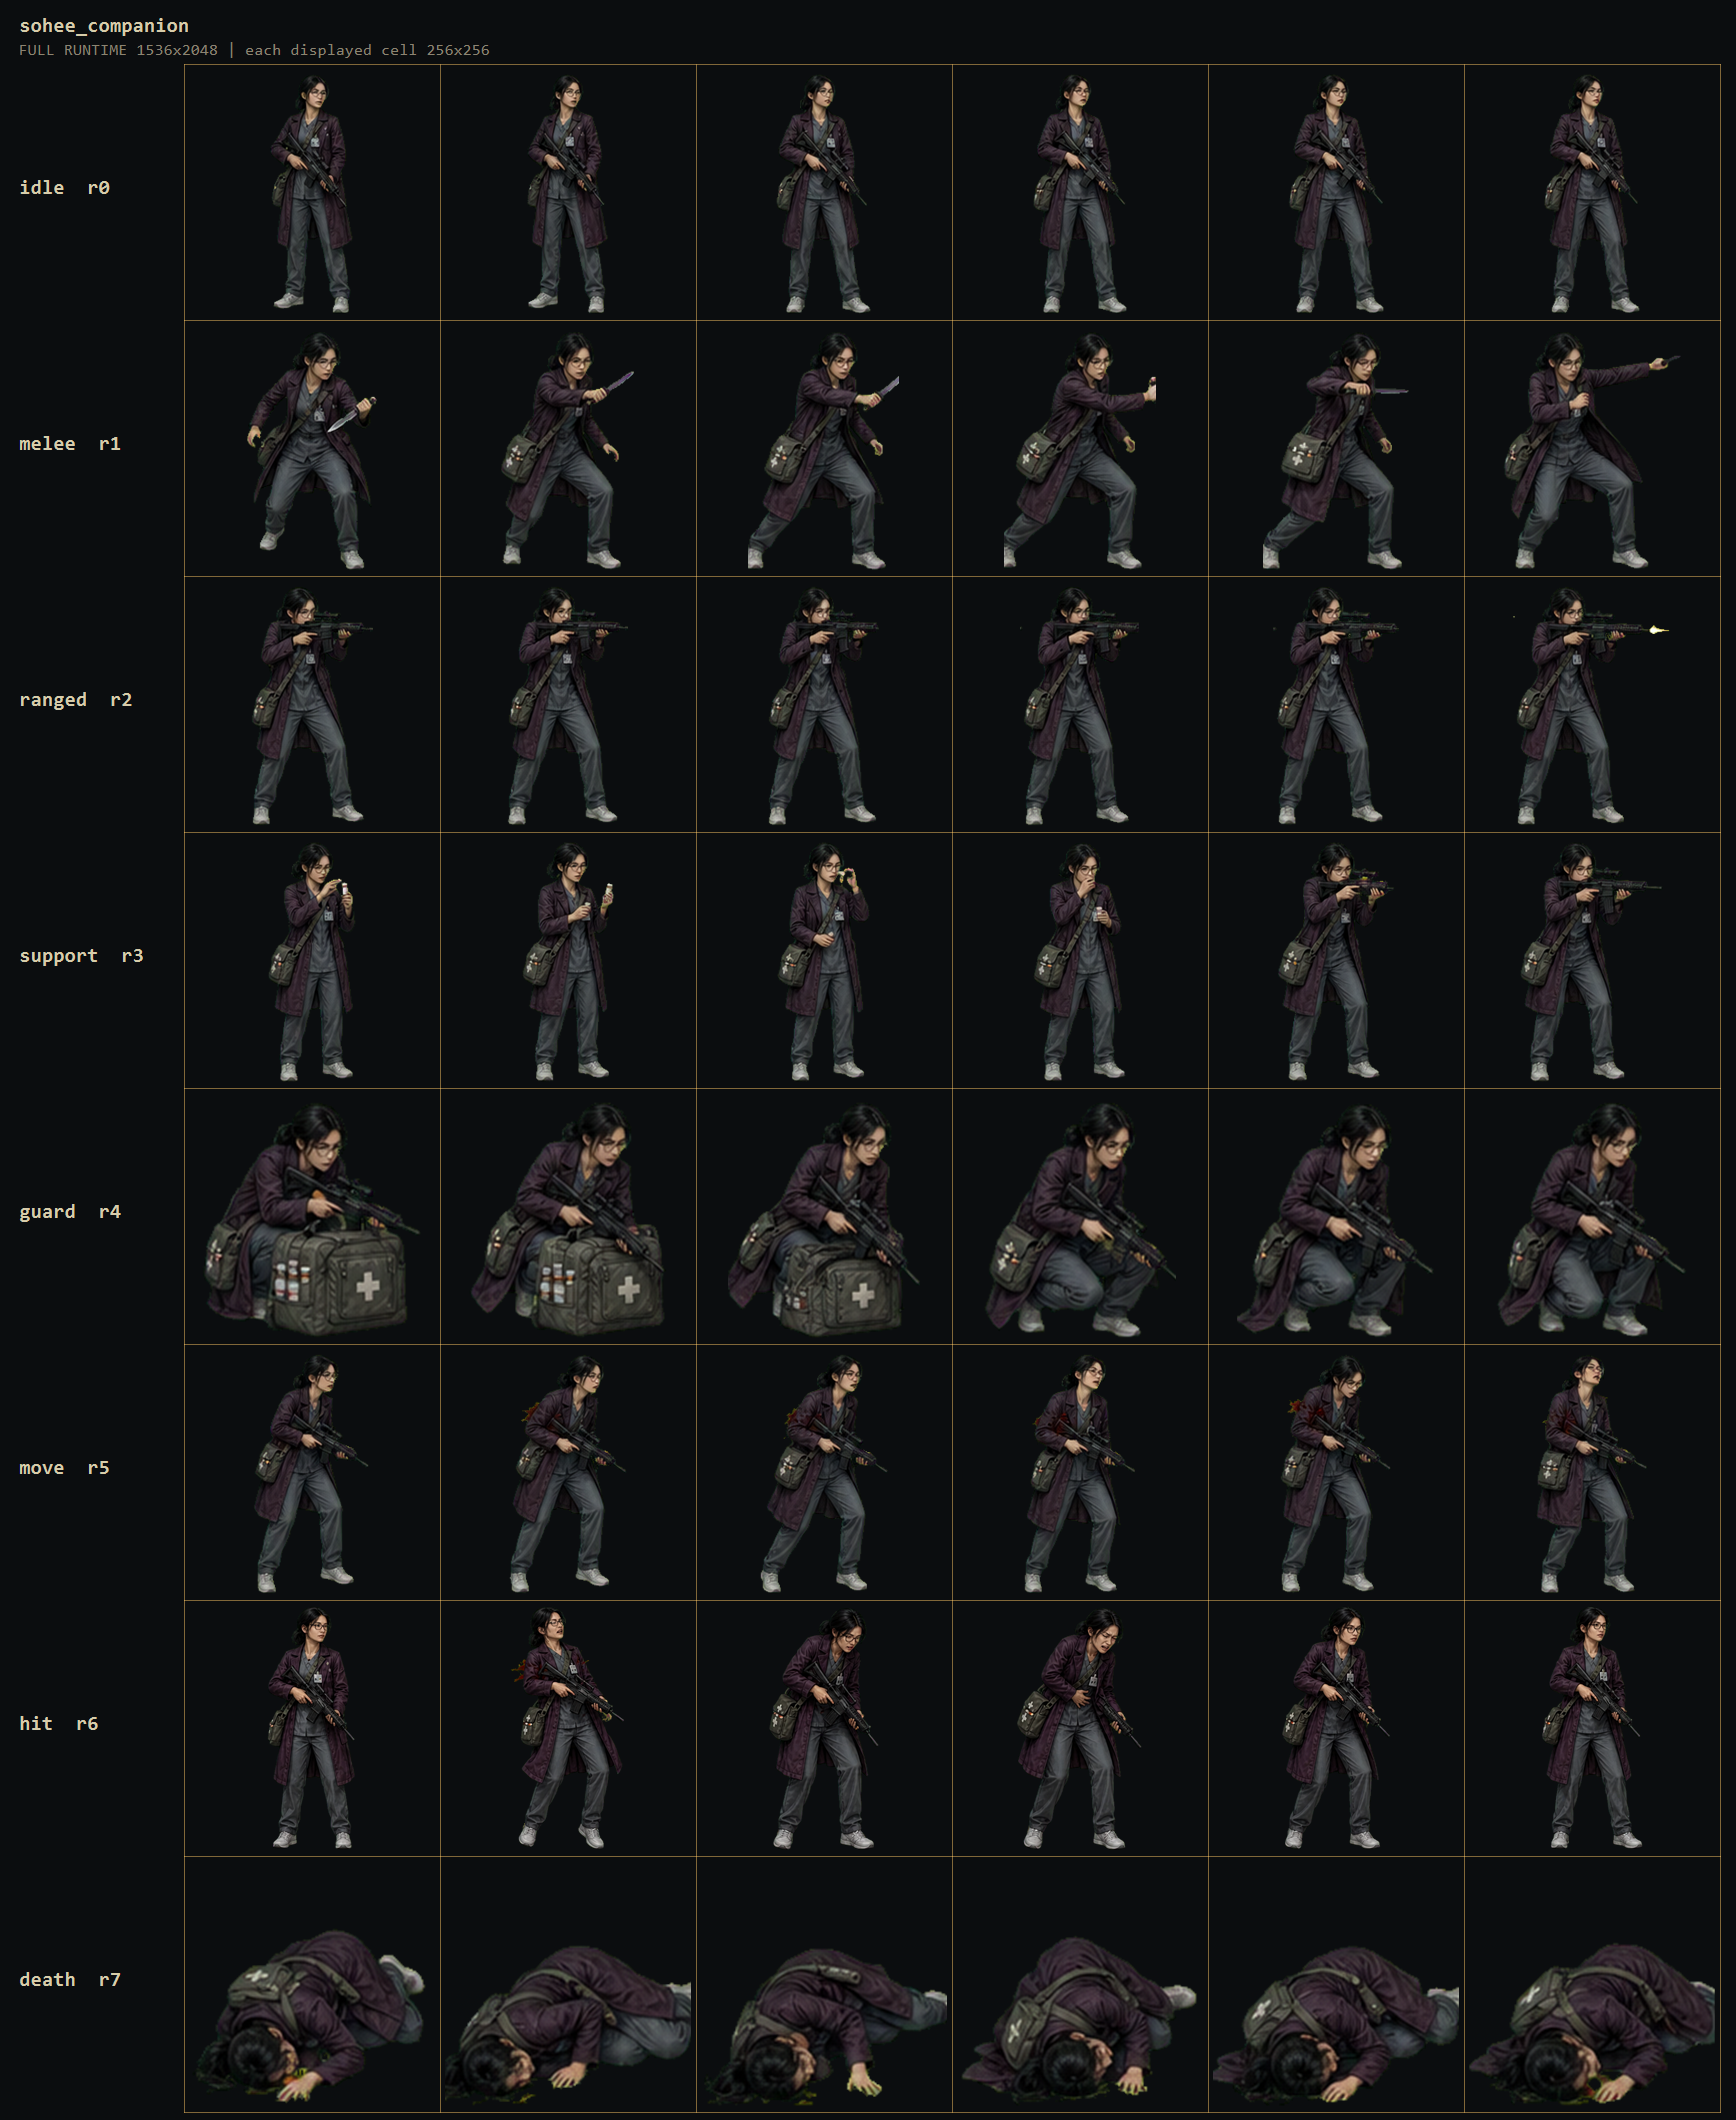
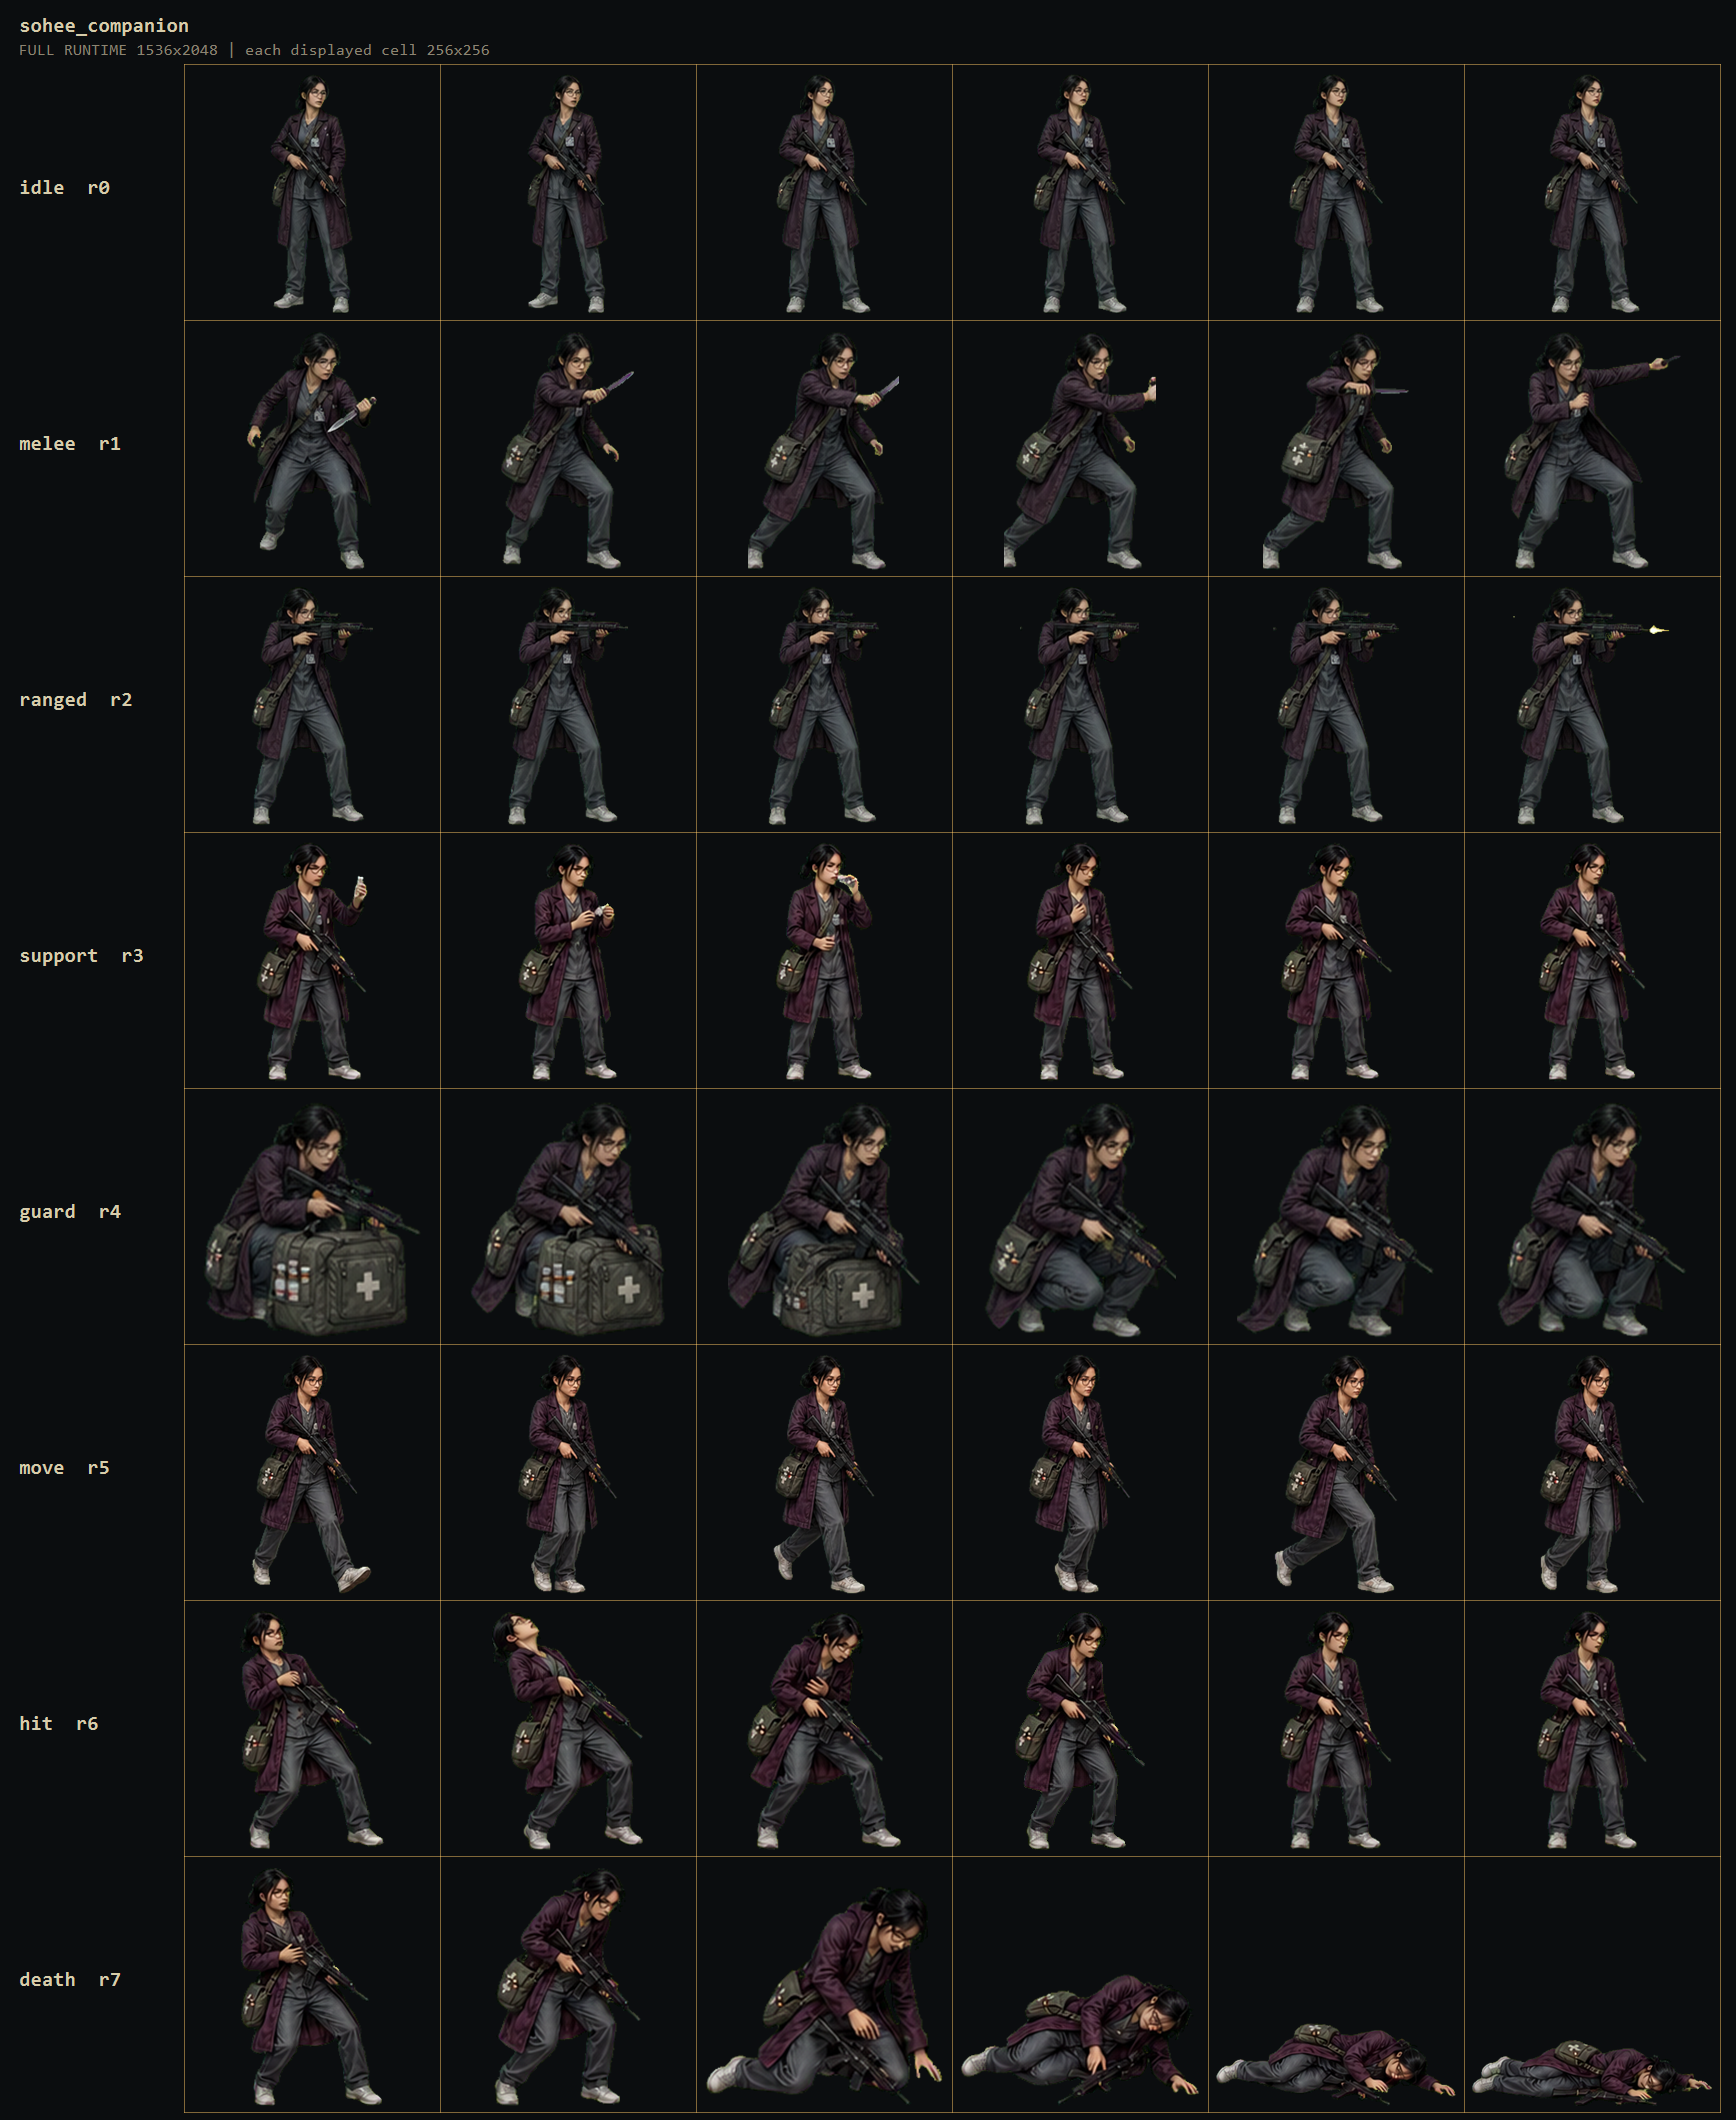
feat(assets): rebuild Sohee support and reaction motions

diff --git a/docs/analysis/COMPANION_MOTION_QA.md b/docs/analysis/COMPANION_MOTION_QA.md
@@ -12,6 +12,8 @@
 
 2026-08-08 fix round 2 선택적 재검토에서는 `old_survivor_companion`과 `sous_chef_companion`의 이동 r5를 다시 교체하고 original 해상도 source alpha·runtime·개별 확대 보드를 셀별로 대조했다. 노년 생존자의 승인된 발/지팡이 phase는 유지됐고 source 여섯 셀의 좌우 gutter가 모두 49px 이상이다. 부주방장은 f1 큰·밝은 near boot toe-up contact → f2 두 발 close true passing → f3 작은·어두운 far boot flat contact와 반대 occlusion → f4 opposite close passing → f5 lowered-pelvis near-leg wide contact → f6 close neutral return으로 읽힌다. runtime normalized lower-alpha IoU는 f1/f6 `0.369`, f2/f5 `0.333`, f1/f3 `0.568`이며 이전 반복 실루엣 수치보다 낮다. 두 source/runtime 모두 셀 경계 alpha와 cross-cell component가 0이고 source 최소 gutter는 각각 49px/33px이며, 다른 188개 비대상 행은 기준선과 동일하다.
 
+2026-08-08 Task 4 선택적 재검토에서는 `sohee_companion`의 support r3, move r5, hit r6, death r7을 교체하고 original 해상도 source alpha·runtime·개별 확대 보드를 셀별로 대조했다. support는 약병 확인-계량 복용-호흡 집중-ready, move는 큰·밝은 near shoe toe-up 접지-close passing-작은 far shoe flat 접지와 반대 depth occlusion-opposite passing-굽힌 무릎 push-off-balanced return, hit는 충격-최대 recoil-전방 굴곡-전투 ready 복귀, death는 직립 부상-무릎 약화-한쪽 무릎 접지-측면 낙상-prone 정지로 읽힌다. 24개 source cell은 362×362이고 최소 좌우 gutter 33px, boundary alpha 0, cross-cell component 0이며, 비대상 188개 행은 기준선과 동일하다.
+
 ## 60개 스킬 수동 판정
 
 각 셀의 세 스킬은 모두 개별 `PASS`다. 상세 관찰 문장은 수동 관찰 원본에 스킬 ID별로 보존한다.
@@ -70,7 +72,7 @@
 - 스킬: 60개 고유 ID, `COMBAT_SKILLS.motionKey`와 8행 의미 계약 일치
 - PNG: 20개 모두 1536×2048, 8-bit RGBA, 6×8, 셀 256×256
 - 셀: 960/960 populated, 960/960 transparent corners
-- strict chroma: 새 alpha 2종과 runtime r5 2행에서 각각 `opaqueGreen=0`, `fringeGreen=0`, `hiddenRgb=0`, `boundaryGreen=0`, `removedComponents=0`, `staleAllowlist=0`
+- strict chroma: Task 3 alpha 2종/runtime r5 2행과 Task 4 Sohee canonical alpha/runtime target 4행에서 각각 `opaqueGreen=0`, `fringeGreen=0`, `hiddenRgb=0`, `boundaryGreen=0`, `removedComponents=0`, `staleAllowlist=0`
 - 수동 증거: 스킬 60/60 PASS, hit/death 40/40 PASS
 
 ## 종합 판정
